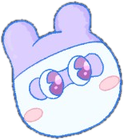
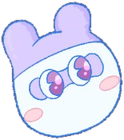
Recolour the keyed black to the art's own lilac instead of leaving it
The residue cannot be divided out — that was tried and it brightened the
navy outlines away — but it can be made to belong. Two steps after keying
blend the dark toward (220, 206, 255), the lilac the bunny's ears are
painted with, and both stop well below the luminance where the line work
starts, so the outlines come through exactly as drawn.

The rim step is the honest but subtle half: the soft band, the near-black
pixels touching it, and the invisible pixels just outside the sprite,
which the downscale mixes into the edge and which should hold lilac
rather than black.

The visible half is the folds. Three spots are dark paint and not
residue — the candy's wrapper fin, the cookie packet's corner, the shadow
behind the yakult's cap — painted near-black for a background that was
going to be black, and reading as bites out of a sticker now the sky is
pastel. Lifting them turns each back into a shadow. Nothing in the pixels
tells them apart from the soda's navy cap, which has to stay, so they are
named rather than found: an art call recorded, not a heuristic guessed.

Judged over the pastel sky at in-game size, 22 to 62 pixels, both alone
and in the scene. Outline pixel counts unchanged, no sprite darker by
more than a handful of levels anywhere, no speckle.

diff --git a/games/maskutchi-bag-charm/scripts/slice_assets.py b/games/maskutchi-bag-charm/scripts/slice_assets.py
@@ -20,6 +20,13 @@ Two things make this more than a threshold:
   in the file is between 45 and 76 — and become pale highlights. Together those three are
   what make the pouch read as clear vinyl with things inside it.
 
+Keying that black leaves some of it behind, in the soft band where the paint was blended
+into it and in the folds the artist painted near-black because the background was going to
+be black too. Two steps afterwards move that dark toward the palette's lilac instead of
+trying to remove it — see lilac_rim and lilac_paint. Neither touches coverage, and neither
+goes anywhere near the navy line work: recovering these edges by arithmetic was tried, and
+it brightened the outlines away.
+
 The pouch's interior doubles as the playable area. It is drawn slightly rotated, so no
 rectangle matches it; the region found here is written out as a low-resolution bitmask in
 assets/pouch-inside.json and the game samples that to decide whether a point is inside.
@@ -42,6 +49,27 @@ OUT = HERE / "assets"
 
 DARK = 18  # luminance at or below this is a candidate for background
 FEATHER = 0.8  # blur radius on the alpha edge; the line work glows and should not look cut
+
+LILAC = (220, 206, 255)  # the bunny's ears: a thousand pixels of it, so it is the art's own
+RIM = 0.9  # how far the darkest residue moves toward it, and never all the way
+RIM_LUM = 45  # residue is near-black, and the line work in this art starts at 76
+RIM_HOLD = 0.55  # an opaque edge pixel moves less far, so the rim stays a gradient
+RIM_BLEED = 3  # and the cleared pixels this close carry it too, for the resampler to find
+
+# Three spots in this set are dark paint and not matte residue: the candy's left wrapper fin,
+# the cookie packet's bottom corner and the shadow behind the yakult's cap. Against the dark
+# background the art was drawn on they were folds, and on the pastel sky they read as bites out
+# of the sticker. They are named here rather than found, because nothing in the pixels separates
+# them from the soda's navy cap or the dark beads on the pouch, which are shading on dark paint
+# and have to stay. The number is how many of a sprite's near-black shapes to lift, largest
+# first.
+PAINT_SPOTS = {"item-candy": 2, "item-cookie": 1, "item-yakult": 1}
+PAINT = 0.7  # a lift and not a repaint: the fold keeps its shape and its gradient
+PAINT_CORE = 45  # the near-black part of the fold, which is what can be found by colour
+PAINT_LUM = 110  # the rest of it is dark paint in the same range as the line work, so it is
+PAINT_GROW = 3  # grown out from that core a few pixels instead of being selected
+PAINT_MIN = 10  # and a core smaller than this is a speck, not a fold
+PAINT_SOLID = 240  # solid enough: the feather nibbles the outermost ring of every shape
 
 VINYL = (214, 238, 255, 51)  # the pouch interior: clear blue, barely there
 SHINE = (255, 255, 255, 95)  # the strokes along its edge
@@ -171,6 +199,135 @@ def bitmask(cells, w, box):
     return rows
 
 
+def toward_lilac(px, x, y, pull, ceiling):
+    """Blend one pixel toward the lilac, the darker the further, and never past `pull`."""
+    r, g, b, a = px[x, y]
+    value = (r * 299 + g * 587 + b * 114) // 1000
+    if value >= ceiling:
+        return 0
+    k = pull * (1 - value / ceiling)
+    px[x, y] = (
+        round(r + (LILAC[0] - r) * k),
+        round(g + (LILAC[1] - g) * k),
+        round(b + (LILAC[2] - b) * k),
+        a,
+    )
+    return 1
+
+
+def lilac_rim(sprite, w, h):
+    """Move the black the keying leaves behind toward the palette's lilac.
+
+    Keying an edge that was anti-aliased against black gives it a partial alpha and leaves
+    the black in the colour, and on a pale sky that is a grey rim. This does not try to
+    work out what colour was under it — that way lies brightening the artist's navy
+    outlines out of existence. It just makes the residue belong to the palette: a rim that
+    steps from outline to lilac to sky reads as a soft glow rather than as a dark cut.
+
+    Three sets of pixels, and only these three:
+
+    * The soft band, which is where the residue is. Darkest moves most, and RIM_LUM keeps
+      the reach below the line work, which starts far above it.
+    * Opaque pixels that are near-black *and* touching the band, which is matte residue the
+      threshold happened to round up to solid. They move less far, so the rim keeps a ramp.
+    * Cleared pixels near the sprite, which are invisible but not inert: the downscale
+      resamples their colour into the edge, and it should find lilac there and not black.
+
+    Nothing else. Coverage is not touched anywhere, and opaque paint above RIM_LUM comes
+    through exactly as drawn.
+    """
+    px = sprite.load()
+    n = w * h
+    band = bytearray(n)
+    clear = bytearray(n)
+    for y in range(h):
+        row = y * w
+        for x in range(w):
+            a = px[x, y][3]
+            if not a:
+                clear[row + x] = 1
+            elif a < 255:
+                band[row + x] = 1
+
+    moved = 0
+    for i in range(n):
+        if band[i]:
+            moved += toward_lilac(px, i % w, i // w, RIM, RIM_LUM)
+    for i in range(n):
+        if band[i] or clear[i]:
+            continue
+        x = i % w
+        if not any(
+            band[j]
+            for j in (i - 1 if x else -1, i + 1 if x < w - 1 else -1, i - w, i + w)
+            if 0 <= j < n
+        ):
+            continue
+        moved += toward_lilac(px, x, i // w, RIM_HOLD, RIM_LUM)
+
+    # The cleared ring last, and flat: there is no colour under a pixel that is not there,
+    # so this is only about what the resample has to hand at the edge.
+    frontier = [i for i in range(n) if not clear[i]]
+    for _ in range(RIM_BLEED):
+        nxt = []
+        for i in frontier:
+            x = i % w
+            for j in (i - 1 if x else -1, i + 1 if x < w - 1 else -1, i - w, i + w):
+                if 0 <= j < n and clear[j] == 1:
+                    clear[j] = 2
+                    px[j % w, j // w] = LILAC + (0,)
+                    nxt.append(j)
+        frontier = nxt
+    return moved
+
+
+def lilac_paint(sprite, name, w, h):
+    """Lift a named fold of dark paint toward the same lilac, so it stops reading as a hole.
+
+    The fold's near-black core is easy to find. The rest of it is not: the paint that shades
+    into the core sits in the same luminance range as the navy outlines, and picking that range
+    by colour would lift every outline in the sprite, which is exactly how the last attempt at
+    these edges failed. So the core is grown outward a few pixels through dark paint instead,
+    which reaches the whole fold and cannot reach across the sprite.
+    """
+    keep = PAINT_SPOTS.get(name)
+    if not keep:
+        return 0
+    px = sprite.load()
+    n = w * h
+    core = bytearray(n)
+    for i in range(n):
+        r, g, b, a = px[i % w, i // w]
+        if a >= PAINT_SOLID and (r * 299 + g * 587 + b * 114) // 1000 <= PAINT_CORE:
+            core[i] = 1
+    shapes = (c for c in regions(core, w, h) if len(c) >= PAINT_MIN)
+    found = sorted(shapes, key=len, reverse=True)
+    if len(found) < keep:
+        sys.exit(f"{name}: wanted {keep} dark fold(s), found {len(found)} — has the art moved?")
+
+    fold = set()
+    for cells in found[:keep]:
+        fold.update(cells)
+    frontier = list(fold)
+    for _ in range(PAINT_GROW):
+        nxt = []
+        for i in frontier:
+            x = i % w
+            for j in (i - 1 if x else -1, i + 1 if x < w - 1 else -1, i - w, i + w):
+                if j < 0 or j >= n or j in fold:
+                    continue
+                r, g, b, a = px[j % w, j // w]
+                if a >= PAINT_SOLID and (r * 299 + g * 587 + b * 114) // 1000 <= PAINT_LUM:
+                    fold.add(j)
+                    nxt.append(j)
+        frontier = nxt
+
+    moved = 0
+    for i in fold:
+        moved += toward_lilac(px, i % w, i // w, PAINT, PAINT_LUM)
+    return moved
+
+
 def build(index, name, screen_w, report):
     img = Image.open(source(index)).convert("RGB")
     w, h = img.size
@@ -210,8 +367,14 @@ def build(index, name, screen_w, report):
         for i in hole:
             data[i % w, i // w] = (0, 0, 0, 0)
 
+    # The fold first: the rim pass lifts the outer pixels of a dark shape out of its own range
+    # and would leave the middle of it black.
+    lifted = lilac_paint(sprite, name, w, h)
+    tinted = lilac_rim(sprite, w, h)
+
     if report:
         print(f"  {len(enclosed)} holes{f', interior {len(interior)} px' if interior else ''}")
+        print(f"  {tinted} px of rim residue and {lifted} px of dark paint moved to the lilac")
 
     box = sprite.getbbox()
     if not box:

diff --git a/games/maskutchi-bag-charm/README.md b/games/maskutchi-bag-charm/README.md
@@ -111,9 +111,9 @@ arrangement, zipped, in the weather your own hand produced. The trace is kept in
 
 Fifteen supplied 791×1024 PNGs in `assets/source/`, per-layer exports of one composition on an
 opaque black background rather than on transparency, cut by `scripts/slice_assets.py` into
-fourteen sprites and one bitmask. 479 KiB of sliced art, 245 KiB of which is the pouch, plus
-237 KiB of sources that ship for re-cutting but are never loaded — 716 KiB of `assets/` in
-total, of which the game loads 479 KiB. Nothing is fetched at
+fourteen sprites and one bitmask. 489 KiB of sliced art, 251 KiB of which is the pouch, plus
+237 KiB of sources that ship for re-cutting but are never loaded — 726 KiB of `assets/` in
+total, of which the game loads 489 KiB. Nothing is fetched at
 runtime and there is no API key; a missing file costs you that one picture rather than the
 room.
 
@@ -130,7 +130,7 @@ python3 -m venv .venv && .venv/bin/pip install Pillow
 .venv/bin/python games/maskutchi-bag-charm/scripts/slice_assets.py            # write
 ```
 
-Three things the script has to do, all of them consequences of the black background:
+Four things the script has to do, all of them consequences of the black background:
 
 - **Flood the black field inward from the border** and key it out, then crop to what is left.
 - **Punch out the enclosed black regions**, because in this art every one of them is a hole
@@ -140,6 +140,13 @@ Three things the script has to do, all of them consequences of the black backgro
   `(214, 238, 255)` tint at 20% alpha, and the shine strokes along its edge become white at
   35%. That tint is what makes the pouch read as clear plastic instead of as a hole, and the
   miniatures are drawn under it so they genuinely show through.
+- **Move the leftover black toward the lilac.** Keying cannot take back the black that the edges
+  were blended into, so instead of removing it the script blends it toward `(220, 206, 255)` —
+  the lilac the bunny's ears are painted with — and stops well below the luminance of the navy
+  line work, which is the character of this art and is never touched. Three folds the artist
+  painted near-black are lifted the same way and by name: the candy's wrapper fin, the cookie
+  packet's corner and the shadow behind the yakult's cap, each of which read as a hole punched
+  in the sticker once the sky went pastel.
 
 The interior is also written out as `assets/pouch-inside.json`, a 64×96 bitmask, so the game
 can tell whether a dropped miniature landed in the pouch. The pouch hangs at an angle, so no

diff --git a/briefs/maskutchi-bag-charm.md b/briefs/maskutchi-bag-charm.md
@@ -160,6 +160,21 @@ bottle nearly dissolved. The fringe is invisible at that size and the outlines a
 character of this art. Anything touching the edges has to be looked at over the pastel sky at
 in-game size before it is believed.
 
+**Recolouring the leftover black worked where removing it did not.** The residue cannot be
+divided out, but it can be made to belong: it is blended toward `(220, 206, 255)`, the lilac the
+bunny's ears are already painted with. Reaching only pixels below luminance 45 keeps it clear of
+the line work, which starts at 76, so the outlines come through untouched — and the invisible
+pixels just outside the sprite are painted lilac too, because the downscale mixes their colour
+into the edge and it should find lilac there rather than black. That much is a small win, honest
+but subtle. The visible win was elsewhere: three spots are dark *paint* rather than residue — the
+candy's wrapper fin, the cookie packet's corner, the shadow behind the yakult's cap — folds the
+artist made near-black because the background was going to be black too. On the pastel sky they
+read as bites out of a sticker, and lifting them toward the same lilac turns each one back into a
+shadow. Nothing in the pixels tells them apart from the soda's navy cap, which is shading on a
+dark sprite and has to stay: brightness of the sprite, brightness around the spot and distance
+from the edge all measured the same for both. So they are named in the slicer, one line, an art
+call recorded rather than a heuristic guessed.
+
 **A translucent tint is a better see-through than transparency.** Cutting the interior out
 entirely made the pouch read as an empty outline. Twenty per cent of `(214, 238, 255)` over the
 miniatures — drawn underneath — is what makes it read as plastic, because the things inside it
